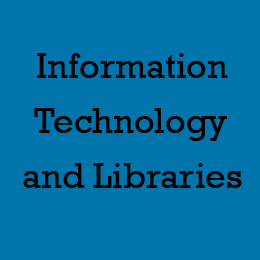
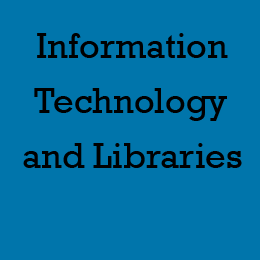
Adjusting title

Changed region(s): [[0.0923, 0.3385, 0.9538, 0.7385], [0.1231, 0.1231, 0.8923, 0.3077]]

diff --git a/content/news/news/2018-03-20-ITLOJS.md b/content/news/news/2018-03-20-ITLOJS.md
@@ -1,4 +1,4 @@
-Title: Volume 37 Issue 1 of <em>Information Technology and Libraries</em> Available Now 
+Title: Volume 37 of <em>Information Technology and Libraries</em> Now Available 
 Destination: http://bit.ly/2pqWQch
 Date: 2018-03-20 01:01 
 Tags: news, tags 
